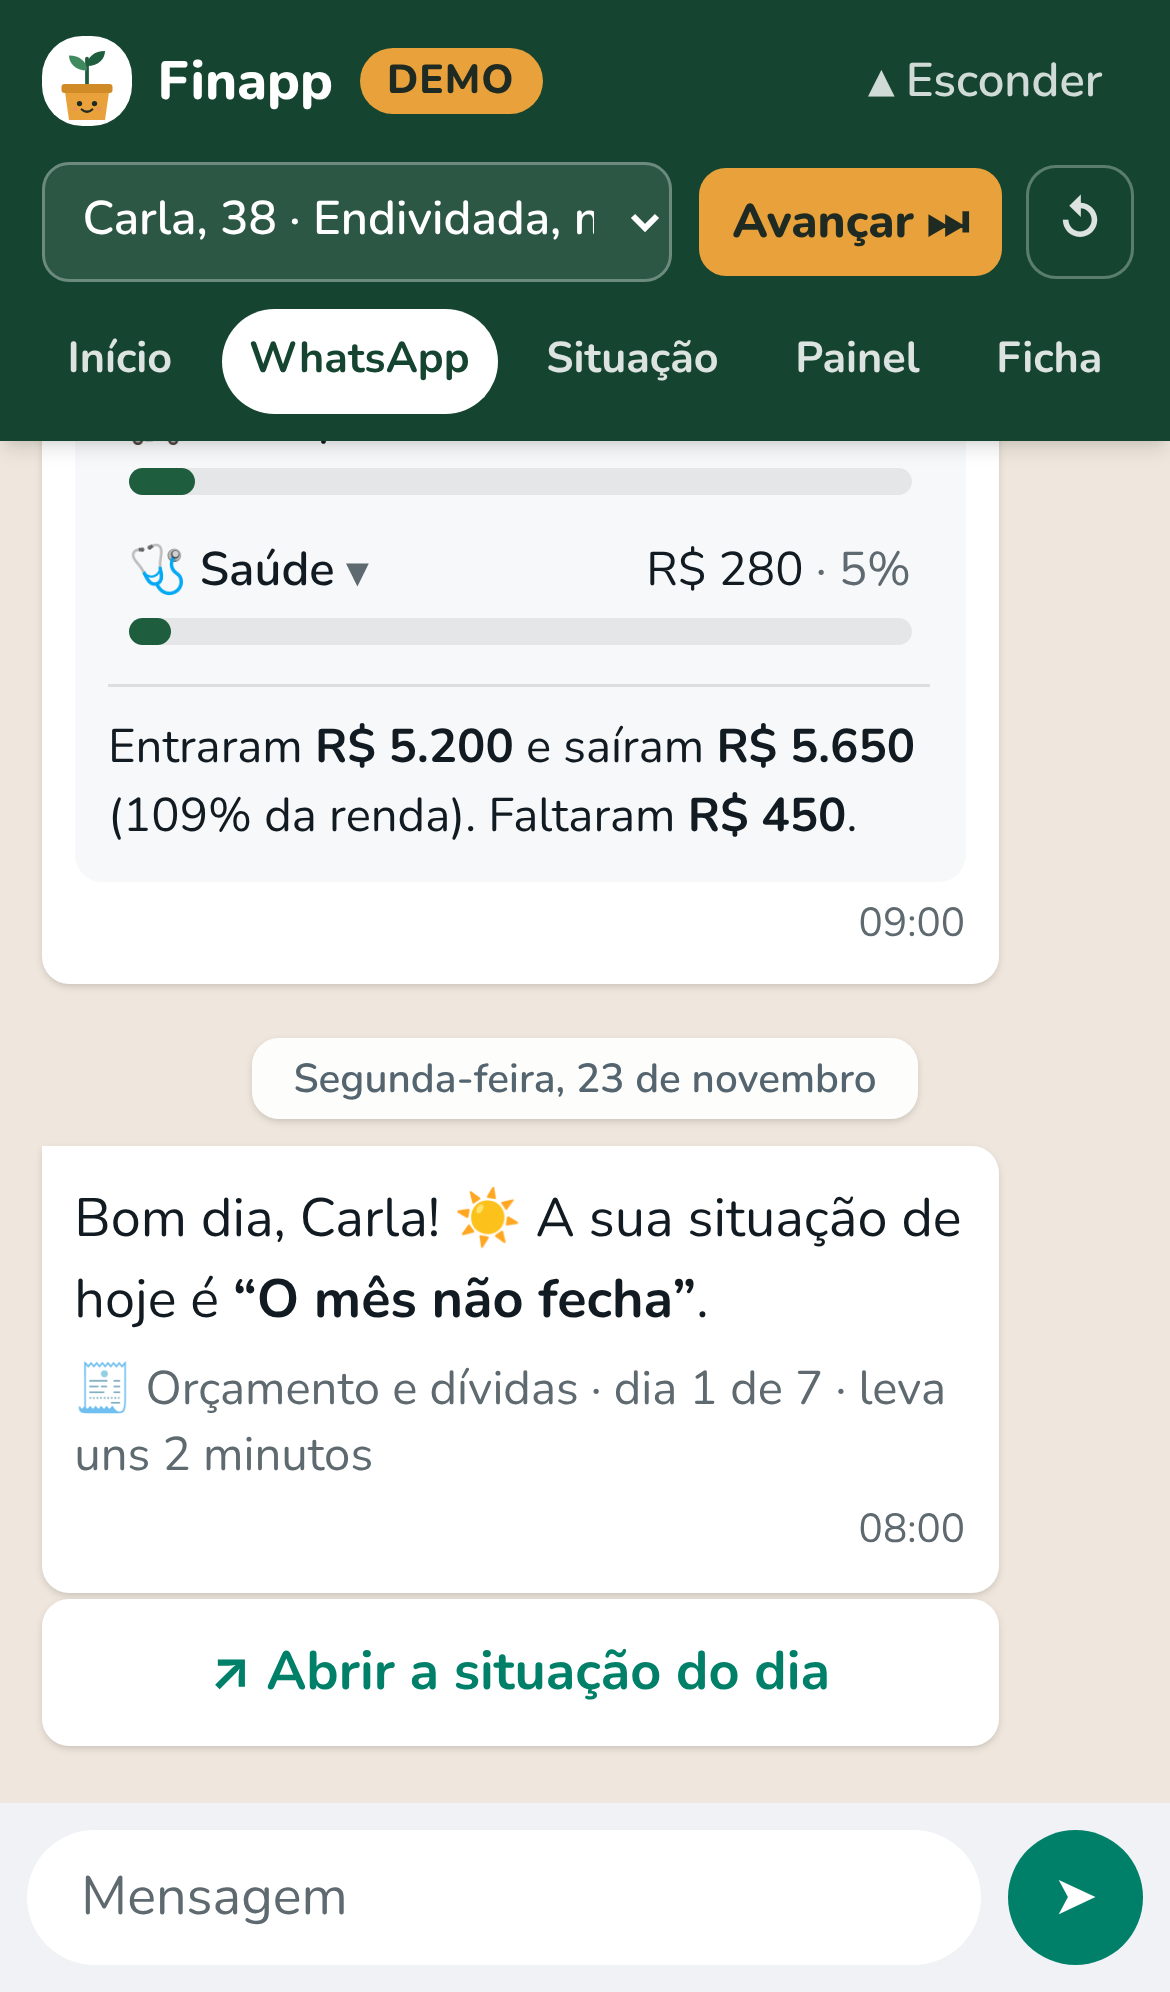
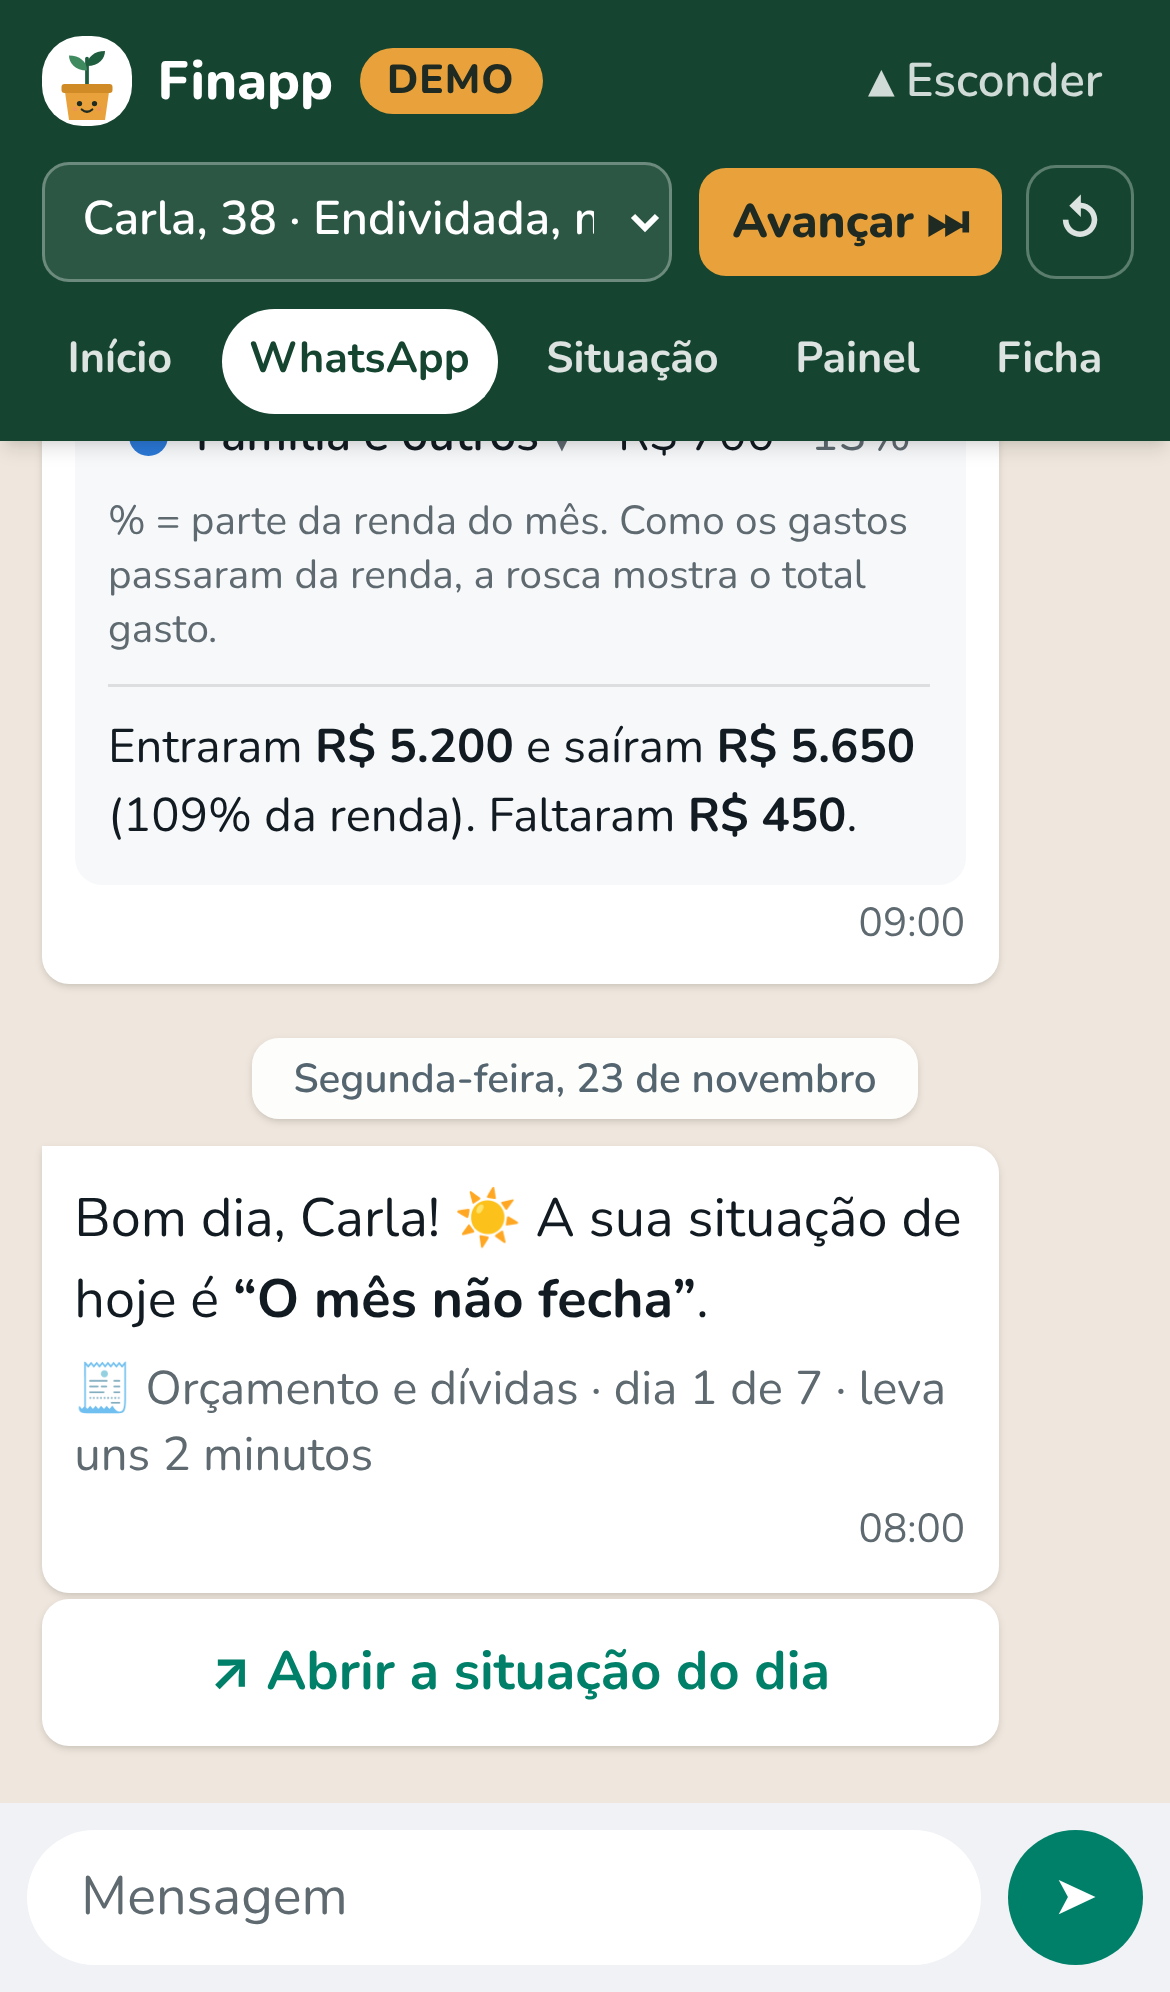
Etapa 4: gráfico de rosca dos gastos nos resumos do WhatsApp
- Rosca com os 6 grupos de gastos e a fatia "Sobrou" (a rosca inteira é
  a renda); quando os gastos passam da renda (Carla), a rosca mostra o
  total gasto e o centro diz quanto faltou
- Fatias e lista clicáveis: tocar abre os gastos de dentro do grupo
- Paleta de 6 cores testada para daltonismo, puxando o verde e o mel da
  marca; cada grupo tem sempre a mesma cor e a mesma posição
- Testes: as fatias fecham 100% e "Sobrou" aparece só quando sobra

Claude-Session: https://claude.ai/code/session_01FAv8BAvnVkhucoetRoK3td

Changed region(s): [[0.0923, 0.2179, 0.4308, 0.3424], [0.4308, 0.249, 0.7692, 0.3112]]

diff --git a/src/components/whatsapp/SpendingChart.jsx b/src/components/whatsapp/SpendingChart.jsx
@@ -2,45 +2,45 @@ import { useState } from 'react'
 import { formatBRLRounded as R, formatPercent } from '../../lib/format.js'
 
 const pct = (x) => formatPercent(Math.round(x * 100) / 100)
+const SURFACE = '#F7F8FA' // fundo do cartão do gráfico (também usado no espaço entre as fatias)
 
-// Gráfico de barras: quanto da renda foi para cada grande grupo de gastos.
-// Cada grupo é um botão: tocar abre os gastos que estão dentro dele.
-// As barras são medidas contra a renda (100% = toda a renda do mês).
-export default function SpendingChart({ groups, overview, incomeLabel = 'renda' }) {
+// Gráfico de rosca dos gastos + lista dos grupos.
+// - Com sobra, a rosca inteira é a renda (grupos + fatia cinza "Sobrou").
+// - Gastando mais do que ganha (Carla), a rosca inteira é o total gasto e o centro mostra quanto faltou.
+// Tocar numa fatia ou num grupo da lista abre os gastos que estão dentro dele.
+export default function SpendingChart({ groups, overview, donut, incomeLabel = 'renda' }) {
   const [open, setOpen] = useState(null)
+  const toggle = (id) => setOpen((cur) => (cur === id ? null : id))
+  const surplus = donut.slices.find((s) => s.id === 'sobrou')
+
   return (
-    <figure className="mt-2 rounded-lg bg-[#F7F8FA] p-2.5">
+    <figure className="mt-2 rounded-lg p-2.5" style={{ background: SURFACE }}>
       <figcaption className="text-sm font-bold">Para onde foi a sua {incomeLabel}</figcaption>
-      <p className="text-xs text-[#5E6A70]">Toque num grupo para ver os gastos dentro dele.</p>
-      <ul className="mt-2 flex flex-col gap-1">
+      <p className="text-xs text-[#5E6A70]">Toque numa fatia ou num grupo para ver os gastos dentro dele.</p>
+
+      <Donut donut={donut} overview={overview} selected={open} onSelect={toggle} incomeLabel={incomeLabel} />
+
+      <ul className="mt-1 flex flex-col gap-0.5">
         {groups.map((g) => {
           const isOpen = open === g.id
           return (
             <li key={g.id}>
               <button
                 type="button"
-                onClick={() => setOpen(isOpen ? null : g.id)}
+                onClick={() => toggle(g.id)}
                 aria-expanded={isOpen}
-                className="w-full rounded-md px-1.5 py-1 text-left hover:bg-black/5 focus-visible:outline-2 focus-visible:outline-[#008069]"
+                className={`flex w-full items-center gap-2 rounded-md px-1.5 py-1 text-left text-sm hover:bg-black/5 focus-visible:outline-2 focus-visible:outline-[#008069] ${isOpen ? 'bg-black/5' : ''}`}
               >
-                <span className="flex items-baseline justify-between gap-2 text-sm">
-                  <span className="font-semibold">
-                    <span aria-hidden="true">{g.emoji} </span>
-                    {g.label} <span className="text-xs text-[#5E6A70]">{isOpen ? '▴' : '▾'}</span>
-                  </span>
-                  <span className="shrink-0 tabular-nums">
-                    {R(g.amount)} <span className="text-[#5E6A70]">· {pct(g.shareOfIncome)}</span>
-                  </span>
+                <span className="h-3 w-3 shrink-0 rounded-full" style={{ background: g.color }} aria-hidden="true" />
+                <span className="min-w-0 flex-1 font-semibold">
+                  {g.label} <span className="text-xs text-[#5E6A70]">{isOpen ? '▴' : '▾'}</span>
                 </span>
-                <span className="mt-1 block h-2 rounded bg-black/[0.07]" aria-hidden="true">
-                  <span
-                    className="block h-full rounded bg-brand"
-                    style={{ width: `${Math.min(100, g.shareOfIncome * 100)}%` }}
-                  />
+                <span className="shrink-0 tabular-nums">
+                  {R(g.amount)} <span className="text-[#5E6A70]">· {pct(g.shareOfIncome)}</span>
                 </span>
               </button>
               {isOpen && (
-                <ul className="mb-1 ml-6 mt-1 flex flex-col gap-0.5 border-l-2 border-leaf pl-2 text-sm">
+                <ul className="mb-1 ml-6 mt-0.5 flex flex-col gap-0.5 border-l-2 pl-2 text-sm" style={{ borderColor: g.color }}>
                   {g.items.map((e) => (
                     <li key={e.id} className="flex justify-between gap-2">
                       <span>{e.label}</span>
@@ -54,7 +54,21 @@ export default function SpendingChart({ groups, overview, incomeLabel = 'renda' 
             </li>
           )
         })}
+        {surplus && (
+          <li className="flex items-center gap-2 px-1.5 py-1 text-sm">
+            <span className="h-3 w-3 shrink-0 rounded-full" style={{ background: surplus.color }} aria-hidden="true" />
+            <span className="flex-1 font-semibold">Sobrou</span>
+            <span className="shrink-0 tabular-nums">
+              {R(surplus.amount)} <span className="text-[#5E6A70]">· {pct(surplus.fraction)}</span>
+            </span>
+          </li>
+        )}
       </ul>
+      <p className="mt-1 text-xs text-[#5E6A70]">
+        % = parte da {incomeLabel} do mês.
+        {overview.balance < 0 && ` Como os gastos passaram da ${incomeLabel}, a rosca mostra o total gasto.`}
+      </p>
+
       <p className="mt-2 border-t border-black/10 pt-2 text-sm">
         Entraram <strong>{R(overview.income)}</strong> e saíram <strong>{R(overview.spent)}</strong> (
         {pct(overview.shareOfIncome)} da {incomeLabel}).{' '}
@@ -69,5 +83,71 @@ export default function SpendingChart({ groups, overview, incomeLabel = 'renda' 
         )}
       </p>
     </figure>
+  )
+}
+
+// Rosca em SVG. Cada fatia é um arco; um traço da cor do fundo separa as fatias.
+function Donut({ donut, overview, selected, onSelect, incomeLabel }) {
+  const C = 100
+  const R_OUT = 92
+  const R_IN = 58
+  const TOP = -Math.PI / 2 // começa no topo, sentido horário
+  const point = (r, a) => `${(C + r * Math.cos(a)).toFixed(2)} ${(C + r * Math.sin(a)).toFixed(2)}`
+  // fração acumulada antes de cada fatia
+  const before = donut.slices.map((_, i) => donut.slices.slice(0, i).reduce((sum, x) => sum + x.fraction, 0))
+  const arcs = donut.slices.map((s, i) => {
+    const start = TOP + before[i] * 2 * Math.PI
+    const end = start + s.fraction * 2 * Math.PI
+    const large = end - start > Math.PI ? 1 : 0
+    const d = [
+      `M ${point(R_OUT, start)}`,
+      `A ${R_OUT} ${R_OUT} 0 ${large} 1 ${point(R_OUT, end)}`,
+      `L ${point(R_IN, end)}`,
+      `A ${R_IN} ${R_IN} 0 ${large} 0 ${point(R_IN, start)}`,
+      'Z',
+    ].join(' ')
+    return { ...s, d }
+  })
+  const deficit = overview.balance < 0
+  const center = deficit
+    ? { top: 'Faltaram', value: R(-overview.balance), bottom: `gastou ${pct(overview.shareOfIncome)}` }
+    : { top: 'Gastos', value: R(overview.spent), bottom: `${pct(overview.shareOfIncome)} da ${incomeLabel}` }
+
+  return (
+    <svg
+      viewBox="0 0 200 200"
+      className="mx-auto my-2 block w-full max-w-[220px]"
+      role="img"
+      aria-label={`Rosca dos gastos: ${donut.slices.map((s) => `${s.label} ${pct(s.fraction)}`).join(', ')}`}
+    >
+      {arcs.map((s) => {
+        const clickable = s.id !== 'sobrou'
+        const dim = selected && selected !== s.id
+        return (
+          <path
+            key={s.id}
+            d={s.d}
+            fill={s.color}
+            stroke={SURFACE}
+            strokeWidth="2"
+            strokeLinejoin="round"
+            opacity={dim ? 0.3 : 1}
+            className={clickable ? 'cursor-pointer transition-opacity' : 'transition-opacity'}
+            onClick={clickable ? () => onSelect(s.id) : undefined}
+          >
+            <title>{`${s.label}: ${R(s.amount)} (${pct(s.fraction)} da rosca)`}</title>
+          </path>
+        )
+      })}
+      <text x={C} y={C - 16} textAnchor="middle" fontSize="12" fill="#5E6A70">
+        {center.top}
+      </text>
+      <text x={C} y={C + 6} textAnchor="middle" fontSize="20" fontWeight="800" fill={deficit ? '#B42318' : '#111B21'}>
+        {center.value}
+      </text>
+      <text x={C} y={C + 24} textAnchor="middle" fontSize="10.5" fill="#5E6A70">
+        {center.bottom}
+      </text>
+    </svg>
   )
 }

diff --git a/src/lib/spending.js b/src/lib/spending.js
@@ -3,26 +3,31 @@
 // que nenhum gasto fica de fora e que a soma dos grupos é igual ao total gasto.
 import { totalExpenses } from '../data/personas.js'
 
+// Cores do gráfico de rosca: cada grupo tem sempre a mesma cor, em todas as personas.
+// Verde e mel puxam a marca; a ordem foi testada com o validador de paleta (daltonismo e
+// visão normal) para fatias vizinhas. "Sobrou" é cinza, por não ser um gasto.
 export const SPENDING_GROUPS = [
-  { id: 'moradia', label: 'Moradia e contas', emoji: '🏠', categories: ['moradia', 'contas'] },
-  { id: 'alimentacao', label: 'Alimentação', emoji: '🍽', categories: ['mercado', 'delivery'] },
-  { id: 'transporte', label: 'Transporte', emoji: '🚌', categories: ['transporte'] },
-  { id: 'saude', label: 'Saúde', emoji: '🩺', categories: ['saude'] },
-  { id: 'lazer', label: 'Lazer e assinaturas', emoji: '🎬', categories: ['lazer', 'assinaturas'] },
+  { id: 'moradia', label: 'Moradia e contas', emoji: '🏠', color: '#2f8a4e', categories: ['moradia', 'contas'] },
+  { id: 'alimentacao', label: 'Alimentação', emoji: '🍽', color: '#E9A23B', categories: ['mercado', 'delivery'] },
+  { id: 'transporte', label: 'Transporte', emoji: '🚌', color: '#d55181', categories: ['transporte'] },
+  { id: 'saude', label: 'Saúde', emoji: '🩺', color: '#6250d6', categories: ['saude'] },
+  { id: 'lazer', label: 'Lazer e assinaturas', emoji: '🎬', color: '#1baf7a', categories: ['lazer', 'assinaturas'] },
   {
     id: 'familia',
     label: 'Família e outros',
     emoji: '👪',
+    color: '#2a78d6',
     categories: ['filhos', 'familia', 'casa', 'roupas', 'estudos', 'outros'],
   },
 ]
+export const SURPLUS_COLOR = '#C4CAD0'
 
 // Em que grupo fica uma categoria (undefined = categoria sem grupo, o que os testes barram)
 export function groupOf(categoryId) {
   return SPENDING_GROUPS.find((g) => g.categories.includes(categoryId))
 }
 
-// Grupos da persona, do maior para o menor, com os itens de cada um.
+// Grupos da persona, sempre na mesma ordem (a da rosca), com os itens de cada um (do maior ao menor).
 // shareOfIncome = fração da renda líquida (pode passar de 100% no total, como na Carla).
 export function spendingByGroup(persona) {
   const income = persona.income.net
@@ -32,10 +37,19 @@ export function spendingByGroup(persona) {
       .sort((x, y) => y.amount - x.amount)
       .map((e) => ({ ...e, shareOfIncome: e.amount / income }))
     const amount = items.reduce((s, e) => s + e.amount, 0)
-    return { id: g.id, label: g.label, emoji: g.emoji, amount, shareOfIncome: amount / income, items }
-  })
-    .filter((g) => g.amount > 0)
-    .sort((x, y) => y.amount - x.amount)
+    return { id: g.id, label: g.label, emoji: g.emoji, color: g.color, amount, shareOfIncome: amount / income, items }
+  }).filter((g) => g.amount > 0)
+}
+
+// Fatias da rosca. Quando sobra dinheiro, a rosca inteira é a renda (6 grupos + "Sobrou").
+// Quando falta (gasta mais do que ganha), a rosca inteira é o total gasto.
+export function donutSlices(persona) {
+  const groups = spendingByGroup(persona)
+  const { balance, spent, income } = monthOverview(persona)
+  const slices = groups.map((g) => ({ id: g.id, label: g.label, color: g.color, amount: g.amount }))
+  if (balance > 0) slices.push({ id: 'sobrou', label: 'Sobrou', color: SURPLUS_COLOR, amount: balance })
+  const base = balance >= 0 ? income : spent
+  return { base, slices: slices.map((s) => ({ ...s, fraction: s.amount / base })) }
 }
 
 // Visão geral do mês: renda, total gasto, quanto sobrou (ou faltou)

diff --git a/src/lib/spending.test.js b/src/lib/spending.test.js
@@ -1,5 +1,5 @@
 import { describe, it, expect } from 'vitest'
-import { SPENDING_GROUPS, groupOf, spendingByGroup, monthOverview } from './spending.js'
+import { SPENDING_GROUPS, groupOf, spendingByGroup, monthOverview, donutSlices } from './spending.js'
 import { personas, totalExpenses, getPersona } from '../data/personas.js'
 
 describe('grupos de gastos do resumo', () => {
@@ -20,10 +20,27 @@ describe('grupos de gastos do resumo', () => {
     for (const g of groups) expect(g.items.reduce((s, e) => s + e.amount, 0)).toBe(g.amount)
   })
 
-  it('grupos vêm do maior para o menor e sem grupos vazios', () => {
+  it('grupos vêm sempre na mesma ordem (a da rosca), sem grupos vazios, cada um com a sua cor', () => {
     const groups = spendingByGroup(getPersona('pedro'))
-    expect(groups.map((g) => g.amount)).toEqual([...groups.map((g) => g.amount)].sort((a, b) => b - a))
+    const order = SPENDING_GROUPS.map((g) => g.id)
+    expect(groups.map((g) => order.indexOf(g.id))).toEqual([...groups.map((g) => order.indexOf(g.id))].sort((a, b) => a - b))
     expect(groups.find((g) => g.id === 'saude')).toBeUndefined() // Pedro não tem gasto com saúde
+    expect(new Set(SPENDING_GROUPS.map((g) => g.color)).size).toBe(6)
+  })
+
+  it.each(personas)('$name: as fatias da rosca fecham 100%', (p) => {
+    const { slices } = donutSlices(p)
+    expect(slices.reduce((s, x) => s + x.fraction, 0)).toBeCloseTo(1)
+  })
+
+  it('rosca: com sobra, inclui "Sobrou" (Roberto 25%); a Carla, que gasta mais do que ganha, não', () => {
+    const roberto = donutSlices(getPersona('roberto'))
+    expect(roberto.base).toBe(11000)
+    expect(roberto.slices.at(-1)).toMatchObject({ id: 'sobrou', amount: 2800 })
+    expect(roberto.slices.at(-1).fraction).toBeCloseTo(2800 / 11000)
+    const carla = donutSlices(getPersona('carla'))
+    expect(carla.base).toBe(5650)
+    expect(carla.slices.find((s) => s.id === 'sobrou')).toBeUndefined()
   })
 
   it('Carla: Alimentação abre mercado e delivery; gasta 109% da renda e faltam R$ 450', () => {

diff --git a/src/components/whatsapp/Messages.jsx b/src/components/whatsapp/Messages.jsx
@@ -99,7 +99,7 @@ export function WelcomeMessage({ m, persona }) {
         do dia, com os números da sua vida, para cuidar melhor do seu dinheiro.
       </p>
       <p className="mt-1">Para começar, olha como foi o seu mês de outubro:</p>
-      <SpendingChart groups={m.groups} overview={m.overview} incomeLabel="bolsa" />
+      <SpendingChart groups={m.groups} overview={m.overview} donut={m.donut} incomeLabel="bolsa" />
       <p className="mt-2">A partir de segunda, a cada manhã chega um desafio novo. Você começa no nível Semente 🌰.</p>
     </Bubble>
   )
@@ -130,7 +130,7 @@ export function SummaryMessage({ m, persona }) {
         )}
       </ul>
       {final && <ChoicesBlock choices={m.choices} />}
-      <SpendingChart groups={m.groups} overview={m.overview} incomeLabel={income} />
+      <SpendingChart groups={m.groups} overview={m.overview} donut={m.donut} incomeLabel={income} />
     </Bubble>
   )
 }

diff --git a/src/lib/conversation.js b/src/lib/conversation.js
@@ -17,7 +17,7 @@ import {
 } from './finance.js'
 import { formatBRLRounded as R, formatPercent } from './format.js'
 import { levelFor, DAYS_IN_WEEK } from './progress.js'
-import { spendingByGroup, monthOverview } from './spending.js'
+import { spendingByGroup, monthOverview, donutSlices } from './spending.js'
 import { choicesSummary } from './choiceValue.js'
 import { THEMES, S } from '../data/situations.js'
 import { monthlyBalance, yearsToRetirement } from '../data/personas.js'
@@ -140,7 +140,7 @@ export function alertsFor(persona, assumptions) {
 
 // ------------------------------------------------------------------ resumos
 function monthBlock(persona) {
-  return { overview: monthOverview(persona), groups: spendingByGroup(persona) }
+  return { overview: monthOverview(persona), groups: spendingByGroup(persona), donut: donutSlices(persona) }
 }
 
 function previousSummary(persona) {

diff --git a/SPEC.md b/SPEC.md
@@ -312,6 +312,15 @@ _08/nov/2026_
   `src/lib/choiceValue.js`, grupos de gastos em `src/lib/spending.js` (todos com testes); telas
   em `src/components/whatsapp/`. O link é `#/situacao?persona=<id>&de=whatsapp`: abre a persona
   certa e mostra "← Voltar ao WhatsApp". Capturas em `docs/capturas/etapa4-*.png`.
+- **Gráfico de rosca (pedido do Arthur depois da entrega):** nos resumos, a rosca fica em cima e
+  a lista clicável dos grupos embaixo (as barras saíram). A rosca inteira é a renda: os grupos
+  mais uma fatia cinza "Sobrou" (Roberto 25%, Dona Lúcia 5%, Pedro 9%). A Carla gasta mais do
+  que ganha, então a rosca dela mostra o total gasto e o centro diz "Faltaram R$ 450". Tocar numa
+  fatia ou num grupo abre os gastos de dentro. **Cores:** paleta testada para daltonismo e visão
+  normal entre fatias vizinhas, puxando a marca. Cada grupo tem sempre a mesma cor: Moradia
+  verde `#2f8a4e`, Alimentação mel `#E9A23B`, Transporte rosa `#d55181`, Saúde violeta
+  `#6250d6`, Lazer verde-água `#1baf7a`, Família azul `#2a78d6`, Sobrou cinza `#C4CAD0`. Os
+  grupos aparecem sempre na mesma ordem. Capturas em `docs/capturas/etapa4-rosca-*.png`.
 
 ### Etapa 5
 -
